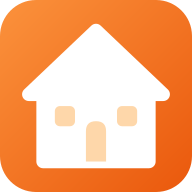
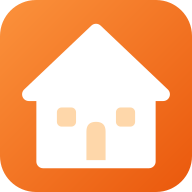
家アイコン内側を95%縮小＋ボトムシート初期高さを10px上げる
- icon.svg / apple-icon.svg: ドアと窓を中心 (256,346) で 95% に縮小
- MembersListSheet: PEEK_HEIGHT 250 → 260（2人目までより余裕で見える）

diff --git a/src/components/MembersListSheet.tsx b/src/components/MembersListSheet.tsx
@@ -85,7 +85,7 @@ export function applyAllFilters(members: MemberWithVisitInfo[], a: AppliedFilter
 
 // peek: 初期表示で「メンバーの2人目ぐらいまで見える」高さ
 // （ヘッダー + あ行ラベル + カード2枚分 + 少し下に余白）
-const PEEK_HEIGHT = 250;
+const PEEK_HEIGHT = 260;
 // mini: 見出し行＋ドラッグハンドルだけ（限界まで下げる）
 const MINI_HEIGHT = 72;
 
